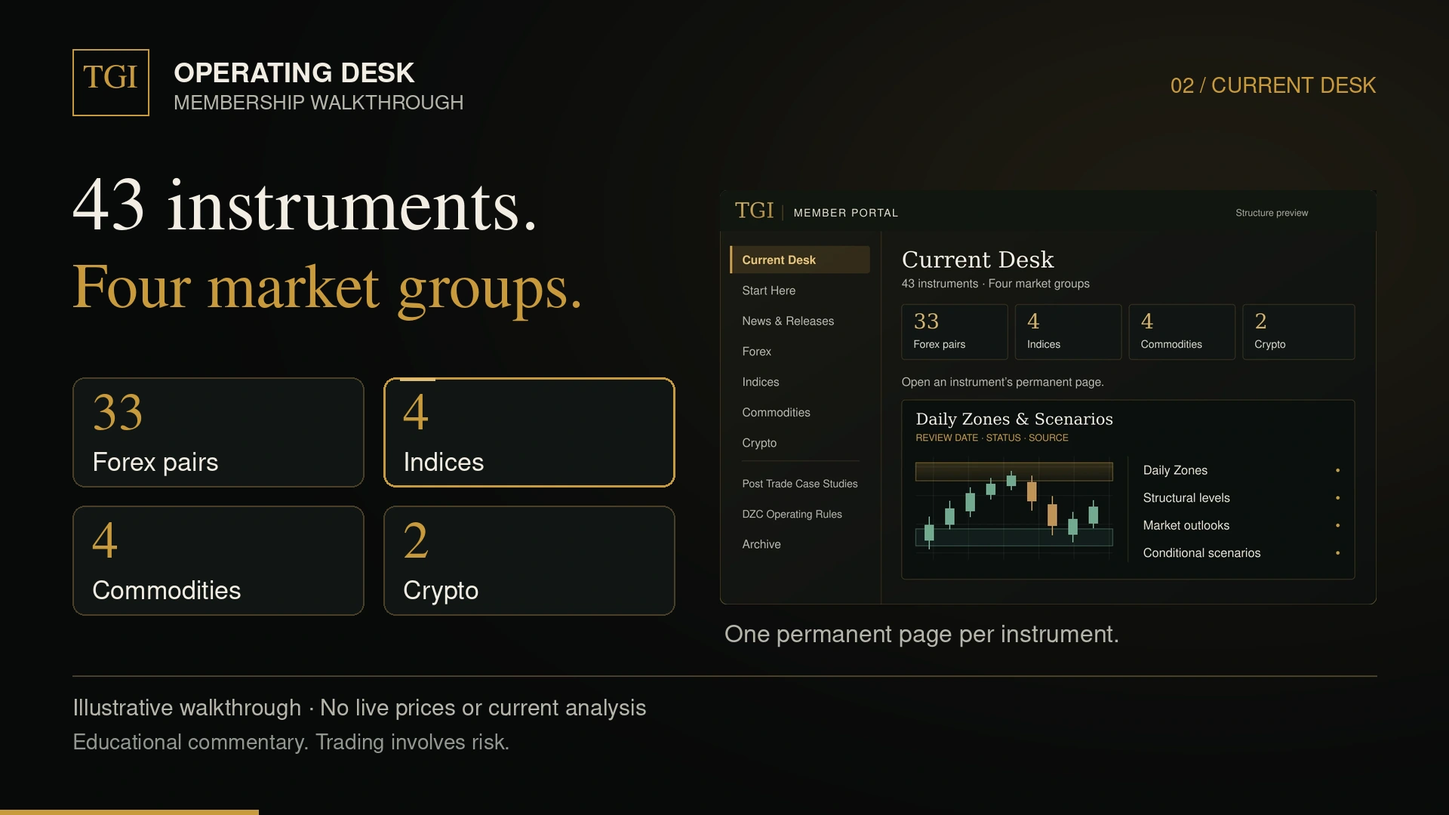
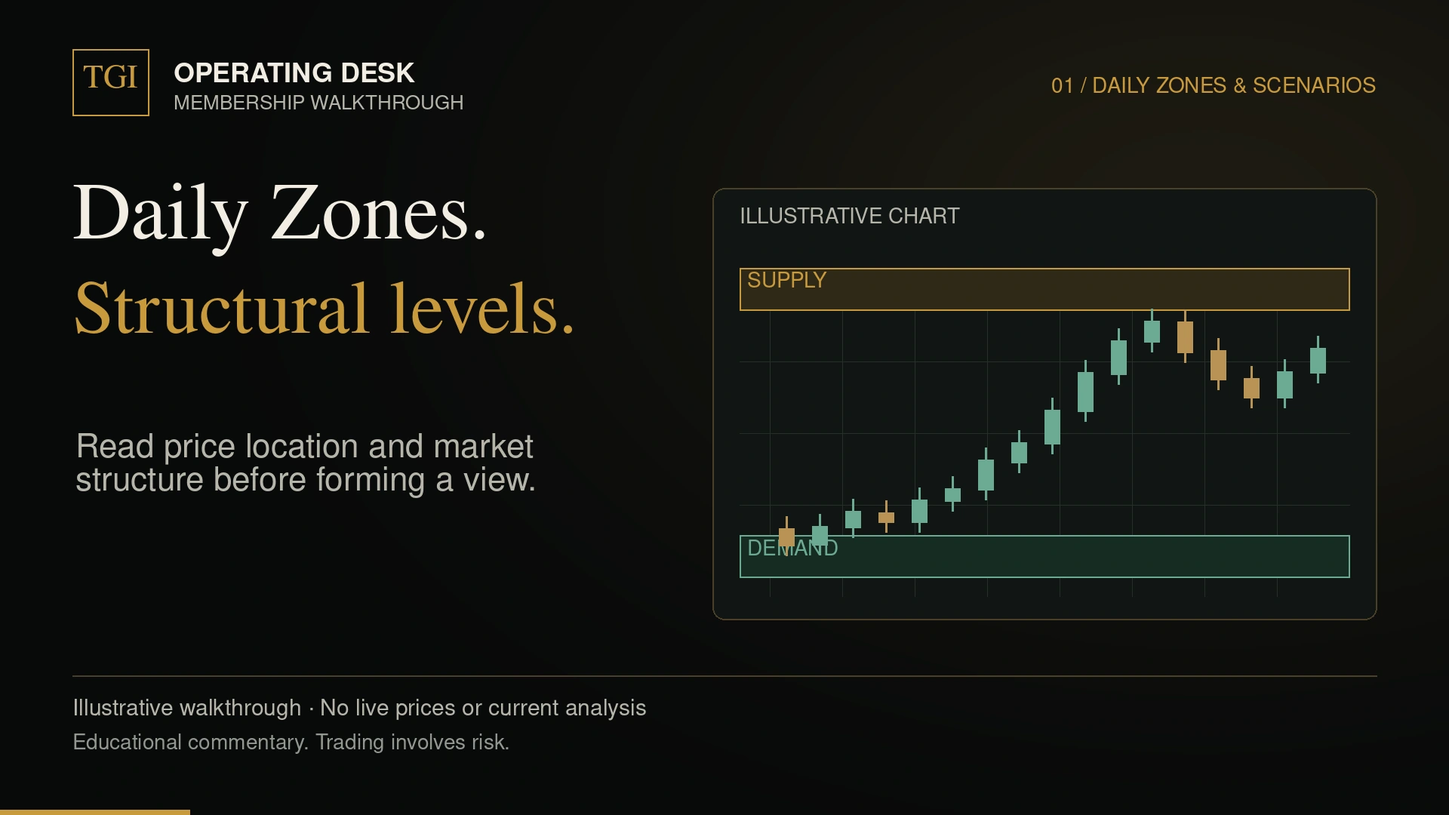
Open the GIF with Daily Zones and remove the block beneath it
* Open the Desk GIF with Daily Zones and remove the content beneath it

* Keep no-JavaScript screenshot preparation synchronous

diff --git a/desk/index.html b/desk/index.html
@@ -1,23 +1,8 @@
 <!doctype html>
-<html lang="en"><head><meta charset="utf-8"/><meta name="viewport" content="width=device-width, initial-scale=1"/><meta name="description" content="Join the TGI Operating Desk for weekly news, Daily Zones, structural levels, scenarios and market outlooks across 43 instruments. $99/month. Cancel anytime."/><meta name="theme-color" content="#080a0a"/><link rel="canonical" href="https://www.tradergrowth.com/desk/"/><meta property="og:title" content="TGI Operating Desk | Prepare with structure"/><meta property="og:description" content="Weekly news. Daily Zones. Structural levels. Market outlooks across 43 instruments. $99/month. Cancel anytime."/><meta property="og:image" content="https://www.tradergrowth.com/assets/tgi-operating-desk-tour-poster.webp"/><title>TGI Operating Desk Membership | Trader Growth Institute</title><link rel="stylesheet" href="../styles.css"/><link rel="stylesheet" href="desk.css?v=20261011-gif"/><script defer src="../app.js"></script><script defer src="desk-video.js?v=20261011"></script><script defer src="desk-gif.js?v=20261011"></script><script defer src="desk-motion.js?v=20261011"></script></head><body class="desk-page"><a class="skip-link" href="#membership-main">Skip to membership</a><header class="site-header" data-header><a class="brand" href="/" aria-label="Trader Growth Institute home"><span class="brand-mark" aria-hidden="true">TGI</span><span class="brand-name">Trader Growth Institute</span></a><button class="nav-toggle" type="button" aria-expanded="false" aria-controls="site-nav"><span></span><span></span><span class="sr-only">Open navigation</span></button><nav class="site-nav" id="site-nav" aria-label="Primary navigation"><a href="/newsletter/">Intelligence</a><a href="/desk/" aria-current="page">Operating Desk</a><a href="/dzc/">Book</a><a href="/cot/">COT Dashboard</a></nav><a class="text-link header-cta" href="https://tradergrowthfx.thinkific.com/users/sign_in">Member sign in →</a></header>
+<html lang="en"><head><meta charset="utf-8"/><meta name="viewport" content="width=device-width, initial-scale=1"/><meta name="description" content="Join the TGI Operating Desk for weekly news, Daily Zones, structural levels, scenarios and market outlooks across 43 instruments. $99/month. Cancel anytime."/><meta name="theme-color" content="#080a0a"/><link rel="canonical" href="https://www.tradergrowth.com/desk/"/><meta property="og:title" content="TGI Operating Desk | Prepare with structure"/><meta property="og:description" content="Weekly news. Daily Zones. Structural levels. Market outlooks across 43 instruments. $99/month. Cancel anytime."/><meta property="og:image" content="https://www.tradergrowth.com/assets/tgi-operating-desk-tour-poster.webp"/><title>TGI Operating Desk Membership | Trader Growth Institute</title><link rel="stylesheet" href="../styles.css"/><link rel="stylesheet" href="desk.css?v=20261011-order"/><script defer src="../app.js"></script><script defer src="desk-gif.js?v=20261011-order"></script><script defer src="desk-motion.js?v=20261011"></script></head><body class="desk-page"><a class="skip-link" href="#membership-main">Skip to membership</a><header class="site-header" data-header><a class="brand" href="/" aria-label="Trader Growth Institute home"><span class="brand-mark" aria-hidden="true">TGI</span><span class="brand-name">Trader Growth Institute</span></a><button class="nav-toggle" type="button" aria-expanded="false" aria-controls="site-nav"><span></span><span></span><span class="sr-only">Open navigation</span></button><nav class="site-nav" id="site-nav" aria-label="Primary navigation"><a href="/newsletter/">Intelligence</a><a href="/desk/" aria-current="page">Operating Desk</a><a href="/dzc/">Book</a><a href="/cot/">COT Dashboard</a></nav><a class="text-link header-cta" href="https://tradergrowthfx.thinkific.com/users/sign_in">Member sign in →</a></header>
 <main id="membership-main"><section class="desk-hero"><div class="desk-hero-copy"><p class="eyebrow">TGI Operating Desk · Member access</p><h1>Follow the preparation.<br/><em>Build your own conviction.</em></h1><p class="desk-lead">Weekly news announcements, Daily Zones, structural levels, conditional scenarios, and market outlooks across 43 instruments—organized in one member portal.</p><div class="desk-offer"><b>$99</b><span>/ month<br/>One member desk. Ongoing access.</span></div><a class="button button-gold desk-join" href="https://tradergrowthfx.thinkific.com/enroll/3775153?price_id=4732368">Join the TGI Operating Desk <span>— $99/month</span></a><p class="desk-micro">Recurring monthly membership. Cancel anytime.<br/>Secure enrollment and member access through Thinkific.</p><a class="text-link" href="#inside">See what’s inside <span aria-hidden="true">↓</span></a></div><figure class="desk-preview">
-<div class="desk-gif-frame"><img id="desk-gif" data-desk-gif data-desk-gif-src="../assets/tgi-operating-desk-tour.gif" src="../assets/tgi-operating-desk-tour-poster.webp" alt="Overview of the TGI Operating Desk: market coverage, news, Daily Zones, scenarios, rules and membership." width="960" height="540" decoding="async"/></div>
-<div class="desk-gif-controls"><button data-desk-gif-control type="button" aria-controls="desk-gif" hidden>Play animation</button><a href="../assets/tgi-operating-desk-tour.gif" download>Download GIF</a><a href="../assets/tgi-operating-desk-tour.mp4" download>Download MP4</a></div>
+<div class="desk-gif-frame"><img id="desk-gif" data-desk-gif data-desk-gif-src="../assets/tgi-operating-desk-tour.gif?v=20261011-order" src="../assets/tgi-operating-desk-tour-poster.webp?v=20261011-order" alt="Illustrative TGI Operating Desk walkthrough: Daily Zones, market coverage, news, scenarios, rules and membership. No live prices or current analysis." width="960" height="540" decoding="async"/><button class="desk-gif-toggle" data-desk-gif-control type="button" aria-label="Play animation" aria-controls="desk-gif" hidden></button></div>
 <p class="sr-only" data-desk-gif-status role="status" aria-live="polite"></p>
-<figcaption>42-second illustrative walkthrough · No live prices or current analysis shown</figcaption>
-<details class="desk-video-option"><summary>Watch with video controls</summary>
-<div class="desk-video-frame">
-<video data-desk-video controls playsinline preload="none" poster="../assets/tgi-operating-desk-tour-poster.webp" width="1920" height="1080" tabindex="0" aria-label="42-second TGI Operating Desk membership walkthrough">
-<source src="../assets/tgi-operating-desk-tour.webm" type="video/webm"/>
-<source src="../assets/tgi-operating-desk-tour.mp4" type="video/mp4"/>
-<track kind="captions" src="../assets/tgi-operating-desk-tour.vtt" srclang="en" label="English"/>
-<p>Your browser does not support embedded video. <a href="../assets/tgi-operating-desk-tour.mp4">Download the membership walkthrough</a>.</p>
-</video>
-<button class="desk-video-play" data-desk-video-start type="button" hidden aria-label="Play the 42-second TGI Operating Desk walkthrough"><svg viewBox="0 0 64 64" aria-hidden="true"><circle cx="32" cy="32" r="30" fill="#c99a3d" stroke="#e0bd76" stroke-width="1"/><path d="M26 20L46 32L26 44Z" fill="#080a0a"/></svg><strong>Watch the Desk walkthrough</strong><span>42 seconds · Designed for sound off</span></button>
-</div>
-<p class="desk-video-status" data-desk-video-status hidden role="status" aria-live="polite"></p>
-</details>
-<details class="desk-video-transcript"><summary>Read the walkthrough</summary><p><strong>One member desk.</strong> Weekly news, Daily Zones, structural levels, scenarios, and market outlooks in one portal.</p><p><strong>Current Desk.</strong> Open permanent pages for 43 instruments: 33 forex pairs, four indices, four commodities, and two cryptocurrencies.</p><p><strong>News &amp; Releases.</strong> Find weekly news announcements, economic-release context, and desk notices.</p><p><strong>Daily Zones &amp; scenarios.</strong> Read price location, structural levels, the working outlook, supporting conditions, and invalidation. Check the latest review date and status. Coverage does not mean every instrument has a fresh assessment.</p><p><strong>Rules &amp; historical work.</strong> Study Post Trade Case Studies, refer to DZC Operating Rules, and revisit dated work in the Archive.</p><p><strong>Join the Desk.</strong> $99/month. Cancel anytime. General education; trading involves risk. The examples in this video are illustrative.</p></details>
 </figure></section>
 <div class="desk-strip"><span>Weekly News</span><span>Daily Zones</span><span>Structural Levels</span><span>Market Outlooks</span></div>
 <section class="desk-section" id="inside"><p class="eyebrow">The preparation behind the decision</p><h2>One place to see the work.<br/><em>And understand what changes it.</em></h2><p class="desk-intro">Start at the Current Desk. Scan the full market board, open an instrument’s permanent page, and follow the published preparation behind Jay’s outlook. News, structural analysis, scenarios, and historical work have a clear place in the portal.</p>

diff --git a/desk/desk.css b/desk/desk.css
@@ -14,7 +14,7 @@
 .desk-join {text-transform:none;letter-spacing:0;font-size:14px;gap:5px;padding:18px 22px;white-space:normal;line-height:1.4;text-align:center;background:#c99a3d;color:#080a0a;border-color:#c99a3d}
 .desk-page .desk-micro {font-size:12px;line-height:1.65;margin:12px 0 18px}
 .desk-page .text-link {font-size:13px}
-.desk-preview {margin:0}.desk-preview img {width:100%;height:auto}.desk-preview figcaption {font-size:11px;text-align:center;color:#98958c;margin-top:12px}
+.desk-preview {margin:0}.desk-preview img {width:100%;height:auto}
 .desk-strip {display:flex;justify-content:center;flex-wrap:wrap;gap:2rem;padding:24px;border-block:1px solid #c99a3d33;color:#c99a3d;font-size:12px;text-transform:uppercase;letter-spacing:.12em}
 .desk-section {padding:75px 7vw;max-width:1500px;margin:auto}.desk-intro {max-width:720px;font-size:18px}.desk-grid {display:grid;grid-template-columns:repeat(3,1fr);gap:18px;margin-top:35px}
 .desk-grid article,.desk-fit article {padding:28px;background:#111212;border:1px solid #c99a3d26;border-radius:5px}.desk-number {color:#c99a3d;font-family:var(--serif);font-size:25px}.desk-page h3 {font-size:19px;margin:18px 0 12px}.desk-grid p {font-size:14px}
@@ -30,13 +30,12 @@
 .desk-hero {background:radial-gradient(ellipse at 88% 15%,rgba(201,154,61,.10),transparent 52%)}
 .desk-preview {padding:24px 20px 18px;border:1px solid rgba(201,154,61,.5);border-radius:6px;background:linear-gradient(145deg,#151512,#090a0a);box-shadow:0 22px 65px rgba(0,0,0,.3)}
 .desk-preview img {display:block;filter:drop-shadow(0 15px 20px rgba(0,0,0,.35))}
-.desk-preview figcaption {line-height:1.6;margin-top:20px}
 .desk-founder img {border:1px solid rgba(201,154,61,.6);box-shadow:0 20px 50px rgba(0,0,0,.25)}
 .desk-grid article,.desk-fit article {border-color:rgba(201,154,61,.23);background:linear-gradient(145deg,#141513,#0d0f0f)}
 .desk-workflow {border-block:1px solid rgba(201,154,61,.18)}
 .desk-pricing aside {background:linear-gradient(145deg,#191813,#0d0f0f);box-shadow:0 20px 60px rgba(0,0,0,.25)}
 .desk-page .desk-join:hover {background:#e0b459;border-color:#e0b459}
-@media(max-width:500px){.desk-preview {padding:18px 10px 14px}.desk-preview figcaption {font-size:10px;margin-top:14px}}
+@media(max-width:500px){.desk-preview {padding:18px 10px 14px}}
 
 /* Asset coverage follows the current member portal, rather than review frequency. */
 .desk-coverage {display:grid;grid-template-columns:.8fr 1.6fr;gap:32px;margin-top:38px;padding:32px;border:1px solid rgba(201,154,61,.38);border-radius:6px;background:linear-gradient(130deg,#191813,#0c1010)}
@@ -52,26 +51,10 @@
 @media(max-width:900px){.desk-coverage {grid-template-columns:1fr;gap:25px;padding:25px}.desk-market-groups {max-width:600px}}
 @media(max-width:500px){.desk-page .desk-market-groups {grid-template-columns:1fr;gap:22px}.desk-coverage {padding:24px 20px}}
 
-.desk-video-frame {position:relative;aspect-ratio:16/9;overflow:hidden;border:1px solid rgba(201,154,61,.25);border-radius:4px;background:#080a0a}
-.desk-video-frame video {display:block;width:100%;height:100%;object-fit:contain;background:#080a0a}
-.desk-video-play {position:absolute;inset:0;display:flex;flex-direction:column;align-items:center;justify-content:center;gap:10px;width:100%;border:0;background:linear-gradient(180deg,rgba(8,10,10,.12),rgba(8,10,10,.52));color:var(--ivory);cursor:pointer;font-family:var(--sans);text-align:center}
-.desk-video-play svg {width:68px;height:68px;filter:drop-shadow(0 4px 15px rgba(0,0,0,.5))}
-.desk-video-play strong {font-size:18px;font-weight:500;text-shadow:0 2px 8px #000}
-.desk-video-play > span {font-size:12px;color:#e6dfd0;text-shadow:0 2px 8px #000}
-.desk-video-play:hover svg {transform:scale(1.06)}
-.desk-video-play[hidden],.desk-video-status[hidden] {display:none}
-.desk-video-download {display:block;width:fit-content;margin:10px auto 0;text-decoration:underline;text-underline-offset:4px}
-.desk-page .desk-video-status {font-size:12px;margin:12px 0 0}
-.desk-video-transcript {margin-top:18px;border-top:1px solid rgba(201,154,61,.2);padding-top:14px}
-.desk-video-transcript summary {font-size:12px;cursor:pointer;color:#c99a3d}
-.desk-video-transcript p {font-size:13px;margin:14px 0 0}
-@media(max-width:500px){.desk-video-play svg {width:54px;height:54px}.desk-video-play strong {font-size:15px}.desk-video-play > span {font-size:11px}}
-
 /* Brief entrances and tactile feedback; pricing and controls stay available. */
 .desk-page .desk-join {transition:background-color .2s,border-color .2s,box-shadow .25s,transform .25s}
 .desk-grid article,.desk-fit article {transition:border-color .25s,box-shadow .3s,transform .3s cubic-bezier(.22,1,.36,1)}
 .desk-founder img {transition:box-shadow .3s,border-color .3s}
-.desk-video-play svg {transition:transform .25s}
 .desk-grid article:focus-within,.desk-fit article:focus-within {border-color:rgba(201,154,61,.6)}
 @media(hover:hover) and (pointer:fine){
   .desk-page .desk-join:hover {transform:translateY(-2px);box-shadow:0 8px 24px rgba(201,154,61,.15)}
@@ -79,7 +62,7 @@
   .desk-founder img:hover {border-color:#c99a3d;box-shadow:0 24px 60px rgba(0,0,0,.35)}
 }
 @media(prefers-reduced-motion:reduce){
-  .desk-page [data-desk-motion],.desk-page .desk-join,.desk-grid article,.desk-fit article,.desk-founder img,.desk-video-play svg {transition:none!important;animation:none!important;transform:none!important}
+  .desk-page [data-desk-motion],.desk-page .desk-join,.desk-grid article,.desk-fit article,.desk-founder img {transition:none!important;animation:none!important;transform:none!important}
 }
 
 /* The complete GIF blends into the hero without a surrounding frame. */
@@ -89,11 +72,6 @@
 .desk-gif-frame {position:relative;aspect-ratio:16/9}
 .desk-gif-frame img {display:block;width:100%;height:auto}
 .desk-gif-frame::after {content:"";position:absolute;inset:0;pointer-events:none;background:linear-gradient(90deg,#080a0a,transparent 4%,transparent 96%,#080a0a),linear-gradient(0deg,#080a0a,transparent 4%,transparent 96%,#080a0a)}
-.desk-gif-controls {display:flex;align-items:center;justify-content:center;flex-wrap:wrap;gap:12px 20px;margin:14px 0;font-size:12px}
-.desk-gif-controls button {padding:6px 0;border:0;background:none;font:inherit;color:#c99a3d;cursor:pointer;text-decoration:underline;text-underline-offset:4px}
-.desk-gif-controls button[hidden] {display:none}
-.desk-gif-controls a {text-decoration:underline;text-underline-offset:4px}
-.desk-video-option {margin-top:16px;text-align:left}
-.desk-video-option > summary {cursor:pointer;font-size:12px;color:#c99a3d}
-.desk-video-option .desk-video-frame {margin-top:14px;border:0;border-radius:0}
-.desk-preview figcaption {margin-top:16px}
+.desk-gif-toggle {position:absolute;inset:0;z-index:1;width:100%;height:100%;padding:0;border:0;background:transparent;cursor:pointer;touch-action:manipulation}
+.desk-gif-toggle[hidden] {display:none}
+.desk-gif-toggle:focus-visible {outline:2px solid #c99a3d;outline-offset:4px}

diff --git a/tests/site.spec.js b/tests/site.spec.js
@@ -264,7 +264,7 @@ test("legacy book URL redirects to the canonical DZC route", async ({ page }) =>
   await expect(page.getByRole("heading", { level: 1 })).toHaveText("The Daily Zone Command");
 });
 
-test("Operating Desk offer has visible checkout, accurate scope and clear cancellation", async ({ page }) => {
+test("Operating Desk offer has visible checkout, accurate scope and clear cancellation", async ({ page }, testInfo) => {
   const errors = captureErrors(page);
   for (const viewport of [{width:1440,height:900},{width:390,height:844},{width:375,height:667}]) {
     await page.setViewportSize(viewport);
@@ -280,25 +280,20 @@ test("Operating Desk offer has visible checkout, accurate scope and clear cancel
     await expect(page.locator(".desk-lead")).toContainText("across 43 instruments");
     const gif = page.locator('[data-desk-gif]');
     await gif.scrollIntoViewIfNeeded();
-    await expect(gif).toHaveAttribute("src", "../assets/tgi-operating-desk-tour.gif");
+    await expect(gif).toHaveAttribute("src", "../assets/tgi-operating-desk-tour.gif?v=20261011-order");
     await expect.poll(() => gif.evaluate(image => image.complete && image.naturalWidth === 960), { timeout: 15000 }).toBe(true);
     await expect(page.locator(".desk-preview")).toHaveCSS("border-top-width", "0px");
     await page.getByRole("button", { name: "Stop animation", exact: true }).click();
-    await expect(gif).toHaveAttribute("src", "../assets/tgi-operating-desk-tour-poster.webp");
+    await expect(gif).toHaveAttribute("src", "../assets/tgi-operating-desk-tour-poster.webp?v=20261011-order");
     await page.getByRole("button", { name: "Play animation", exact: true }).click();
-    await expect(gif).toHaveAttribute("src", "../assets/tgi-operating-desk-tour.gif");
-    await page.getByText("Watch with video controls", { exact: true }).click();
-    const tour = page.locator('[data-desk-video]');
-    await expect(tour).toHaveAttribute("poster", "../assets/tgi-operating-desk-tour-poster.webp");
-    await expect(tour).toHaveAttribute("preload", "none");
-    await expect(tour).not.toHaveAttribute("autoplay");
-    await expect(tour.locator("source")).toHaveCount(2);
-    await expect(tour.locator('track[kind="captions"]')).toHaveAttribute("src", "../assets/tgi-operating-desk-tour.vtt");
-    expect(await tour.evaluate(video => video.paused)).toBe(true);
-    await page.getByRole("button", { name: "Play the 42-second TGI Operating Desk walkthrough", exact: true }).click();
-    await expect.poll(() => tour.evaluate(video => video.currentTime), { timeout: 15000 }).toBeGreaterThan(0);
-    await expect(page.locator('[data-desk-video-start]')).toBeHidden();
-    await tour.evaluate(video => video.pause());
+    await expect(gif).toHaveAttribute("src", "../assets/tgi-operating-desk-tour.gif?v=20261011-order");
+    const animationControl = page.getByRole("button", { name: "Stop animation", exact: true });
+    await animationControl.focus();
+    await animationControl.press("Enter");
+    await expect(gif).toHaveAttribute("src", "../assets/tgi-operating-desk-tour-poster.webp?v=20261011-order");
+    await expect(page.locator(".desk-preview a, .desk-preview details, .desk-preview figcaption, .desk-preview video")).toHaveCount(0);
+    await page.locator("[data-desk-gif-control]").evaluate(control => control.blur());
+    await page.locator(".desk-preview").screenshot({ path: testInfo.outputPath(`desk-gif-${viewport.width}.png`) });
     await expect(page.locator(".desk-market-groups li")).toHaveText([
       /33.*Forex pairs/,
       /4.*Indices.*DXY.*NAS100.*US30.*SPX/,
@@ -339,7 +334,7 @@ test("Operating Desk stays readable with reduced motion or JavaScript disabled",
       await expect(heading).toHaveCSS("transform", "none");
       await expect(page.locator(".desk-hero .desk-join")).toBeVisible();
       await expect(page.locator(".desk-offer")).toContainText("$99");
-      await expect(page.locator("[data-desk-gif]")).toHaveAttribute("src", "../assets/tgi-operating-desk-tour-poster.webp");
+      await expect(page.locator("[data-desk-gif]")).toHaveAttribute("src", "../assets/tgi-operating-desk-tour-poster.webp?v=20261011-order");
       const card = page.locator(".desk-grid article").first();
       await card.scrollIntoViewIfNeeded();
       await expect(card).toHaveCSS("opacity", "1");
@@ -350,10 +345,16 @@ test("Operating Desk stays readable with reduced motion or JavaScript disabled",
       await expect(pricing.locator(".desk-join")).toBeVisible();
       if (profile.name === "no-javascript") {
         await expect(page.locator("[data-desk-gif-control]")).toBeHidden();
-        await page.getByText("Watch with video controls", { exact: true }).click();
-        await expect(page.locator("[data-desk-video]")).toHaveAttribute("controls", "");
-        await expect(page.locator("[data-desk-video-start]")).toBeHidden();
       }
+      // Keep capture preparation synchronous: page timers do not run with JavaScript disabled.
+      await page.evaluate(() => {
+        window.scrollTo(0, 0);
+        const header = document.querySelector(".site-header");
+        header.style.position = "absolute";
+        header.style.top = "0";
+        document.querySelector(".skip-link").style.display = "none";
+        if (document.activeElement instanceof HTMLElement) document.activeElement.blur();
+      });
       await page.screenshot({ path: testInfo.outputPath(`desk-${profile.name}.png`), fullPage: true });
       expect(errors).toEqual([]);
     } finally {

diff --git a/desk/desk-gif.js b/desk/desk-gif.js
@@ -15,13 +15,15 @@
   const stop = () => {
     if (playing) image.src = poster;
     playing = false;
-    control.textContent = 'Play animation';
+    control.setAttribute('aria-label', 'Play animation');
+    control.title = 'Play animation';
   };
   const play = () => {
     if (playing || document.hidden) return;
     image.src = gif;
     playing = true;
-    control.textContent = 'Stop animation';
+    control.setAttribute('aria-label', 'Stop animation');
+    control.title = 'Stop animation';
   };
 
   control.hidden = false;
@@ -40,12 +42,7 @@
     stop();
     userStopped = true;
     control.hidden = true;
-    status.className = 'desk-video-status';
-    status.textContent = 'Animation unavailable. Use the video controls or read the walkthrough below.';
-  });
-  document.querySelector('[data-desk-video]')?.addEventListener('play', () => {
-    userStopped = true;
-    stop();
+    status.textContent = 'Animation unavailable. The Daily Zones illustration is shown instead.';
   });
 
   if ('IntersectionObserver' in window) {

diff --git a/scripts/render-desk-tour.py b/scripts/render-desk-tour.py
@@ -85,7 +85,7 @@ PORTAL = PORTAL.crop((40, 150, 1160, 857)).resize((870, 549), Image.Resampling.L
 
 
 def intro():
-    im = canvas("01 / One member desk")
+    im = canvas("04 / One member desk")
     d = ImageDraw.Draw(im)
     text(d, (96, 240), "Your market preparation.", 108, IVORY, SERIF)
     text(d, (96, 366), "One member desk.", 108, GOLD, SERIF)
@@ -138,7 +138,7 @@ def news():
 
 
 def zones():
-    im = canvas("04 / Daily Zones & Structure")
+    im = canvas("01 / Daily Zones & Scenarios")
     d = ImageDraw.Draw(im)
     text(d, (96, 242), "Daily Zones.", 108, IVORY, SERIF)
     text(d, (96, 372), "Structural levels.", 100, GOLD, SERIF)
@@ -209,9 +209,9 @@ def close():
     return im
 
 
-SCENES = [intro(), board(), news(), zones(), scenarios(), records(), close()]
-STARTS = [0, 5, 11, 17, 24, 30, 36]
-ENDS = [5, 11, 17, 24, 30, 36, 42]
+SCENES = [zones(), board(), news(), intro(), scenarios(), records(), close()]
+STARTS = [0, 7, 13, 19, 24, 30, 36]
+ENDS = [7, 13, 19, 24, 30, 36, 42]
 
 
 def ease(x):
@@ -235,14 +235,14 @@ def scene_frame(index, elapsed):
         d.rounded_rectangle(boxes[k], radius=16, outline=(201, 154, 61), width=3)
         x0, y0, x1, y1 = boxes[k]
         d.line((x0 + 22, y0 + 2, x0 + pulse + 22, y0 + 2), fill="#e0bd76", width=4)
-    if index == 3:
+    if index == 0:
         visible = min(len(CANDLES), max(1, int(ease((elapsed - .3) / 4.8) * len(CANDLES))))
         for i, (opening, closing) in enumerate(CANDLES[:visible]):
             x = 1042 + i * 44
             col = GREEN if closing < opening else "#b99354"
             d.line((x, min(opening, closing) - 16, x, max(opening, closing) + 16), fill=col, width=3)
             d.rectangle((x - 10, min(opening, closing), x + 10, max(opening, closing) + 3), fill=col)
-    if index == 0:
+    if index == 3:
         length = int(445 * ease(elapsed / 2.2))
         d.line((100, 712, 100 + length, 712), fill="#e0bd76", width=4)
     return im
@@ -276,7 +276,7 @@ def main():
         proc.stdin.close()
         if proc.wait():
             raise RuntimeError("ffmpeg render failed")
-    frame_at(7.5).save(OUT / "tgi-operating-desk-tour-poster.webp", quality=93)
+    frame_at(5.5).save(OUT / "tgi-operating-desk-tour-poster.webp", quality=93)
     print(f"Saved {output} ({output.stat().st_size:,} bytes)", flush=True)
 
 

diff --git a/assets/desk-tour-README.md b/assets/desk-tour-README.md
@@ -7,10 +7,12 @@ The release and pull-request workflows generate the media from the tracked rende
 - MP4: H.264, 1920 × 1080, 24 fps, fast-start, no audio track.
 - WebM: VP9, 1280 × 720, browser alternative.
 - GIF: the complete 42 seconds, 960 × 540, 12 fps, infinite loop.
-- Poster: a frame from the tour using the existing illustrative portal diagram.
-- WebVTT: optional English captions; the page also provides a text walkthrough.
-- The borderless GIF starts when it enters view, stops when hidden, and offers a stop/play control. Reduced-motion and JavaScript-disabled visitors see the still poster by default.
-- Native video controls remain available in the optional video panel. Video playback starts on request.
+- Poster: the opening Daily Zones scene with its illustrative chart fully drawn.
+- WebVTT: English captions for the generated video, matching the current slide order.
+- The borderless GIF starts when it enters view and stops when hidden. Clicking, tapping, or using the keyboard button on the GIF toggles playback without a visible control row. Reduced-motion and JavaScript-disabled visitors see the still poster by default.
+- The membership page displays only the GIF; there are no download links, caption, video panel or transcript beneath it. The generated MP4 and WebM remain release assets.
+
+Slide order: 01 Daily Zones & Scenarios; 02 Current Desk; 03 News & Releases; 04 One member desk; 05 Scenarios & Outlooks; 06 Rules & Historical Work; 07 Join the Desk. The chart animation keeps its full seven seconds and the tour stays 42 seconds long.
 
 Content reflects the 43-instrument navigation verified October 10, 2026: 33 forex pairs, four indices, four commodities, and two cryptocurrencies. All charts and UI examples are illustrative. No live quotes, current trade levels, performance results, branded-app availability or daily publication of every instrument are represented.
 
@@ -20,4 +22,4 @@ On Linux, generate all assets with `bash scripts/build-desk-video.sh`. This inst
 ffmpeg -y -i assets/tgi-operating-desk-tour.mp4 -an -vf scale=1280:720 -c:v libvpx-vp9 -b:v 0 -crf 30 -deadline realtime -cpu-used 5 assets/tgi-operating-desk-tour.webm
 ```
 
-Update the source, captions, transcript and asset filenames together if coverage, pricing or membership scope changes. The walkthrough is public marketing material; keep current member scenarios private.
+Update the source, captions and asset filenames together if coverage, pricing or membership scope changes. The walkthrough is public marketing material; keep current member scenarios private.
